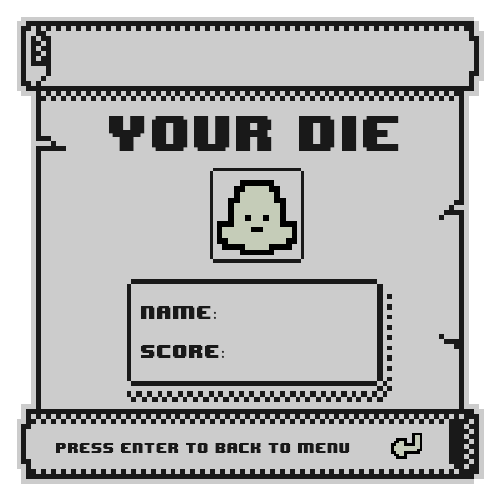
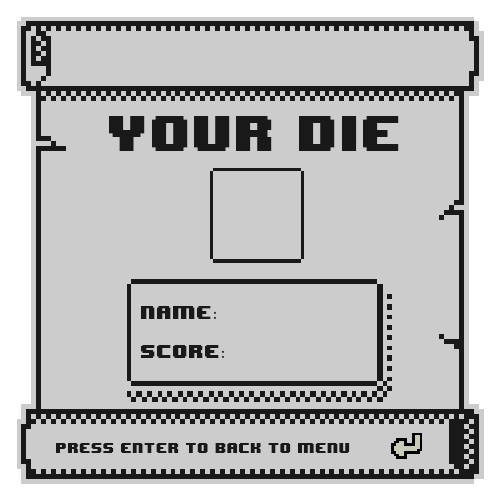
wweqw

Changed region(s): [[0.42, 0.36, 0.6, 0.51]]

diff --git a/backjack_RPG/Source.cpp b/backjack_RPG/Source.cpp
@@ -61,8 +61,8 @@ int coin;
 int levelten = 0;
 int playernumx = 0;
 int playernumy = 0;
-
-
+int VOL = 50;
+bool ispause = false;
 std::vector <enemy> Enemyvec;
 
 
@@ -514,13 +514,58 @@ int main() {
 	playerselect.setTexture(&Texture);;
 	playerselect.setTextureRect(sf::IntRect(x_size * 25, y_size * 0, x_size, y_size));
 
+	sf::RectangleShape volume(sf::Vector2f(50.0f, 50.0f));
+	volume.setOrigin(0.f, 0.f);
+	volume.setTexture(&Texture);;
+	volume.setPosition(500.0f,0.0f);
+	volume.setTextureRect(sf::IntRect(x_size * 25, y_size * 22, x_size, y_size));
 
+
+	sf::Texture pausetex;
+	pausetex.loadFromFile("pause.png");
+	sf::RectangleShape pause(sf::Vector2f(500.0f, 500.0f));
+	pause.setTexture(&pausetex);;
+	pause.setPosition(226.0f, 110.0f);
+
+	sf::Texture pause_menu_tex;
+	pause_menu_tex.loadFromFile("pause_menu_icon.png");
+	sf::RectangleShape pause_menu(sf::Vector2f(80.0f, 80.0f));
+	pause_menu.setTexture(&pause_menu_tex);;
+	pause_menu.setPosition(280.0f, 420.0f);
+
+	sf::Texture pause_volumemax_tex;
+	pause_volumemax_tex.loadFromFile("pause_volume_icon.png");
+
+	sf::Texture pause_volumelow_tex;
+	pause_volumelow_tex.loadFromFile("pause_volumeoff_icon.png");
+
+	sf::RectangleShape pause_volume(sf::Vector2f(80.0f, 80.0f));
+	pause_volume.setTexture(&pause_volumemax_tex);;
+	pause_volume.setPosition(380.0f, 420.0f);
+
+	sf::Texture pause_suicide_tex;
+	pause_suicide_tex.loadFromFile("pause_suicide_icon.png");
+	sf::RectangleShape pause_suicide(sf::Vector2f(80.0f, 80.0f));
+	pause_suicide.setTexture(&pause_suicide_tex);;
+	pause_suicide.setPosition(480.0f, 420.0f);
+
+	sf::Texture pause_play_tex;
+	pause_play_tex.loadFromFile("pause_play_icon.png");
+	sf::RectangleShape pause_play(sf::Vector2f(80.0f, 80.0f));
+	pause_play.setTexture(&pause_play_tex);;
+	pause_play.setPosition(580.0f, 420.0f);
+
+
+	sf::RectangleShape player_dead(sf::Vector2f(80.0f, 80.0f));
+	player_dead.setTexture(&Texture);;
+	player_dead.setPosition(0.0f, 0.0f);
 
 
 	int screen = 0;
 	
 	sf::Music Song;
 	Song.openFromFile("snd/The_Bards_Tale.wav");
+	Song.setVolume(VOL);
 	Song.getLoop();
 	Song.play();
 
@@ -608,11 +653,39 @@ int main() {
 		}
 		if (screen == 1) {
 			window.clear();
+			Song.setVolume(VOL);
 			//window.setView(view);
 			sf::Vector2i mousePos = sf::Mouse::getPosition(window);
 			corsor.setPosition((float)mousePos.x -300, (float)mousePos.y - 300);
 			window.draw(menu2);
 			//window.draw(buttol5);
+			volume.setPosition(1050.0f, 0.0f);
+			volume.setFillColor(sf::Color(255, 255, 255, 255));
+
+			if (VOL == 0) {
+				volume.setTextureRect(sf::IntRect(x_size * 21, y_size * 28, x_size, y_size));
+		}
+			else {
+				volume.setTextureRect(sf::IntRect(x_size * 22, y_size * 28, x_size, y_size));
+			}
+
+
+		if (corsor.getGlobalBounds().intersects(volume.getGlobalBounds())) {
+			volume.setFillColor(sf::Color(255, 255, 255, 128));
+			if (sf::Mouse::isButtonPressed(sf::Mouse::Left)) {
+				while (sf::Mouse::isButtonPressed(sf::Mouse::Left)) {
+				}
+				if (VOL == 0) {
+					VOL = 50;
+				}
+				else {
+					VOL = 0;
+				}
+			}
+		}
+
+
+
 			if (corsor.getGlobalBounds().intersects(buttol.getGlobalBounds())) {
 				window.draw(buttolunder);
 				if (sf::Mouse::isButtonPressed(sf::Mouse::Left)) {
@@ -653,6 +726,7 @@ int main() {
 					return 0;
 				}
 			}
+			window.draw(volume);
 			window.setView(view);
 			window.draw(corsor);
 			window.display();
@@ -685,6 +759,7 @@ int main() {
 			}
 			if (sf::Keyboard::isKeyPressed(sf::Keyboard::Enter)) {
 				player.setTextureRect(sf::IntRect(x_size* (25 + playernumx), y_size* (0 + playernumy), x_size, y_size));
+				player_dead.setTextureRect(sf::IntRect(x_size* (25 + playernumx), y_size* (0 + playernumy), x_size, y_size));
 				screen = 6;
 			}
 			else if (corsor.getGlobalBounds().intersects(arrowright.getGlobalBounds())) {
@@ -749,6 +824,7 @@ int main() {
 		}
 		if(screen ==  6){
 			if (newgame == true) {
+				ispause = false;
 				Swoosh.play();
 				Song.stop();
 				Song.play();
@@ -762,6 +838,7 @@ int main() {
 				sheildnum = 0;
 				coin = 0;
 			}
+		Song.setVolume(VOL);
 		int row = 0;
 		int row_count = 0;
 		while (not Wall.empty()) Wall.pop_back();
@@ -779,6 +856,7 @@ int main() {
 			}
 			row_count += 1;
 		}
+		if(ispause != true){
 		if (sf::Keyboard::isKeyPressed(sf::Keyboard::Key::A)) {
 			Step.play();
 			player.move(-50.f, 0.f);
@@ -849,7 +927,9 @@ int main() {
 			while (herohp <= 0){
 				if (isDraw == false) {
 					paper.setPosition(240.0f, 100.0f);
+					player_dead.setPosition(454.0f, 275.0f);
 					window.draw(paper);
+					window.draw(player_dead);
 					window.display();
 					isDraw = true;
 				}
@@ -865,10 +945,9 @@ int main() {
 		if (sf::Keyboard::isKeyPressed(sf::Keyboard::Key::Escape)) {
 			while (sf::Keyboard::isKeyPressed(sf::Keyboard::Escape)) {
 			}
-
-			screen = 1;
+			ispause = true;
 		}
-
+		}
 
 		for (int i = 0; i < healposion.size(); i++) {
 			if (player.getGlobalBounds().intersects(healposion[i].getGlobalBounds())) {
@@ -1478,6 +1557,73 @@ int main() {
 		}
 		*/
 		//window.draw(playercard);
+		if (ispause == true) {
+			sf::Vector2i mousePos = sf::Mouse::getPosition(window);
+			corsor.setPosition((float)mousePos.x - 300, (float)mousePos.y - 300);
+			pause_menu.setFillColor(sf::Color(255, 255, 255, 255));
+			pause_volume.setFillColor(sf::Color(255, 255, 255, 255));
+			pause_suicide.setFillColor(sf::Color(255, 255, 255, 255));
+			pause_play.setFillColor(sf::Color(255, 255, 255, 255));
+			if (sf::Keyboard::isKeyPressed(sf::Keyboard::Key::Enter) || sf::Keyboard::isKeyPressed(sf::Keyboard::Key::Escape)) {
+				while (sf::Keyboard::isKeyPressed(sf::Keyboard::Enter) || sf::Keyboard::isKeyPressed(sf::Keyboard::Key::Escape)) {
+				}
+				ispause = false;
+			}
+			
+			if(corsor.getGlobalBounds().intersects(pause_menu.getGlobalBounds())){
+				pause_menu.setFillColor(sf::Color(255, 255, 255, 128));
+				if (sf::Mouse::isButtonPressed(sf::Mouse::Left)) {
+					while (sf::Mouse::isButtonPressed(sf::Mouse::Left)) {
+					}
+					screen = 1;
+				}
+			}
+			else if (corsor.getGlobalBounds().intersects(pause_volume.getGlobalBounds())) {
+				pause_volume.setFillColor(sf::Color(255, 255, 255, 128));
+				if (sf::Mouse::isButtonPressed(sf::Mouse::Left)) {
+					while (sf::Mouse::isButtonPressed(sf::Mouse::Left)) {
+					}
+					if (VOL == 50) {
+						VOL = 0;
+					}
+					else {
+						VOL = 50;
+					}
+				}
+			}
+
+			else if (corsor.getGlobalBounds().intersects(pause_suicide.getGlobalBounds())) {
+				pause_suicide.setFillColor(sf::Color(255, 255, 255, 128));
+				if (sf::Mouse::isButtonPressed(sf::Mouse::Left)) {
+					while (sf::Mouse::isButtonPressed(sf::Mouse::Left)) {
+					}
+					herohp = 0;
+					ispause = false;
+				}
+			}
+
+			else if (corsor.getGlobalBounds().intersects(pause_play.getGlobalBounds())) {
+				pause_play.setFillColor(sf::Color(255, 255, 255, 128));
+				if (sf::Mouse::isButtonPressed(sf::Mouse::Left)) {
+					while (sf::Mouse::isButtonPressed(sf::Mouse::Left)) {
+					}
+					ispause = false;
+				}
+			}
+
+			if (VOL == 50) {
+				pause_volume.setTexture(&pause_volumemax_tex);;
+			}
+			else {
+				pause_volume.setTexture(&pause_volumelow_tex);;
+			}
+			window.draw(pause);
+			window.draw(pause_menu);
+			window.draw(pause_volume);
+			window.draw(pause_suicide);
+			window.draw(pause_play);
+			window.draw(corsor);
+		}
 		window.setView(view);
 		window.display();
 		}
